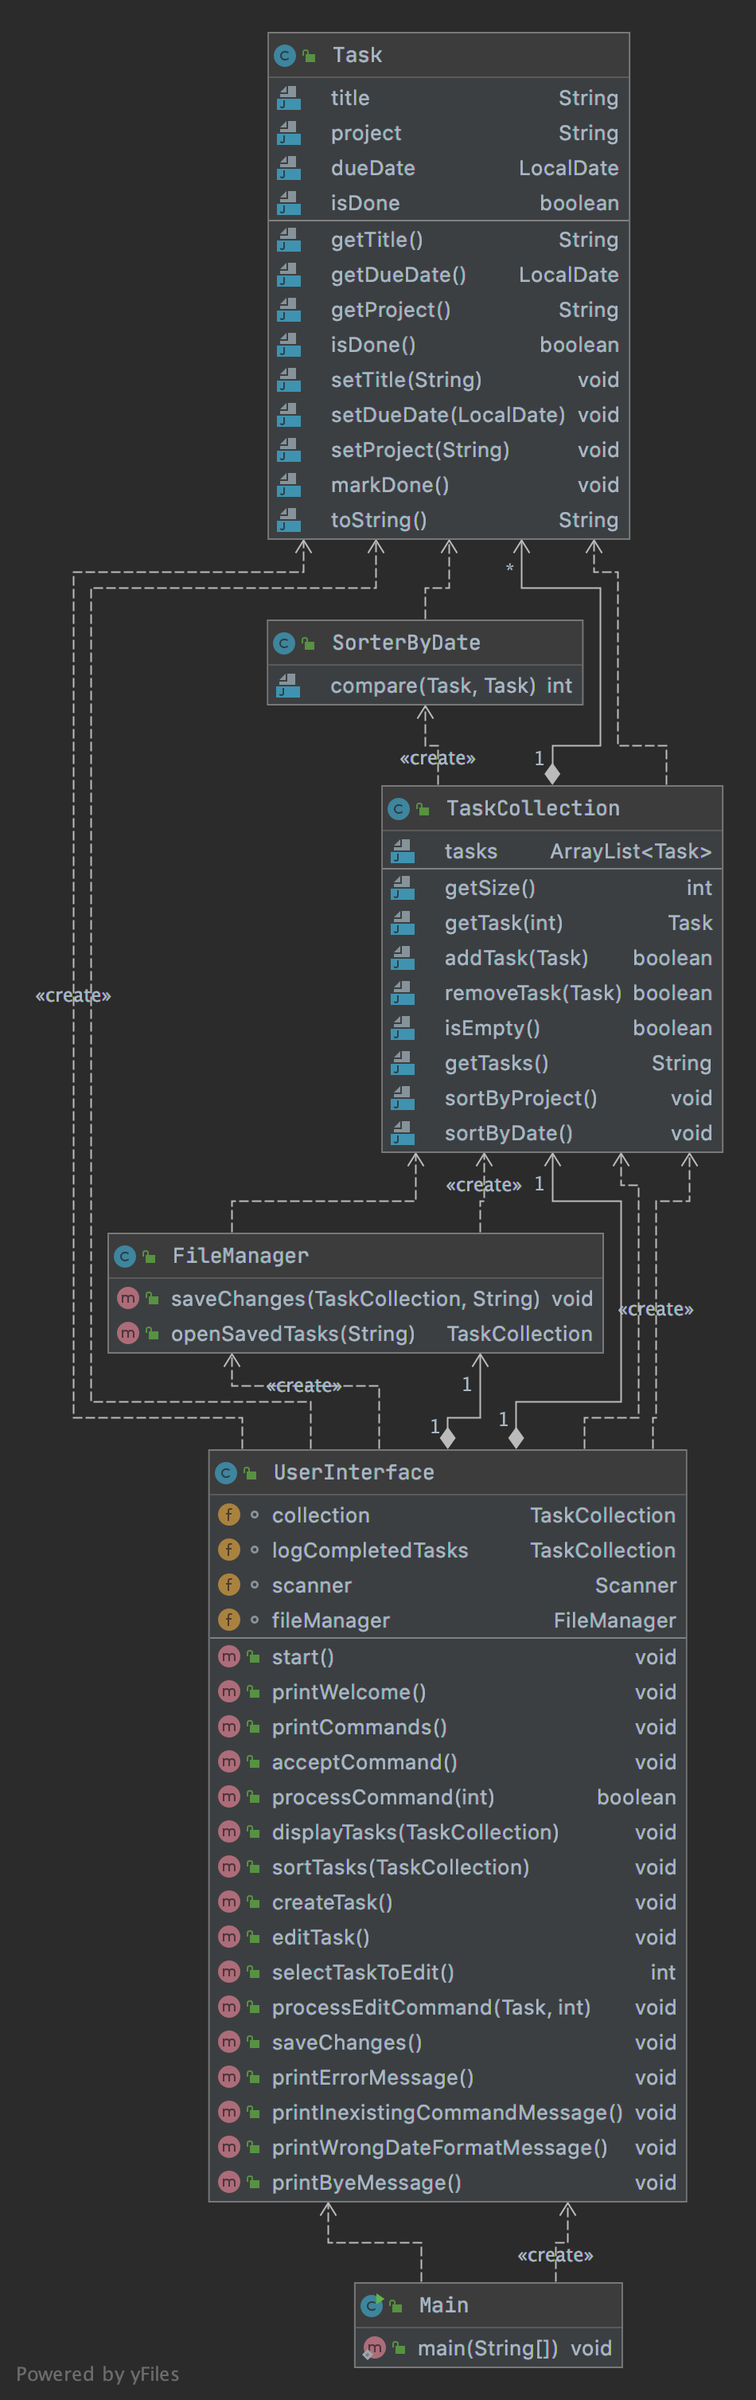
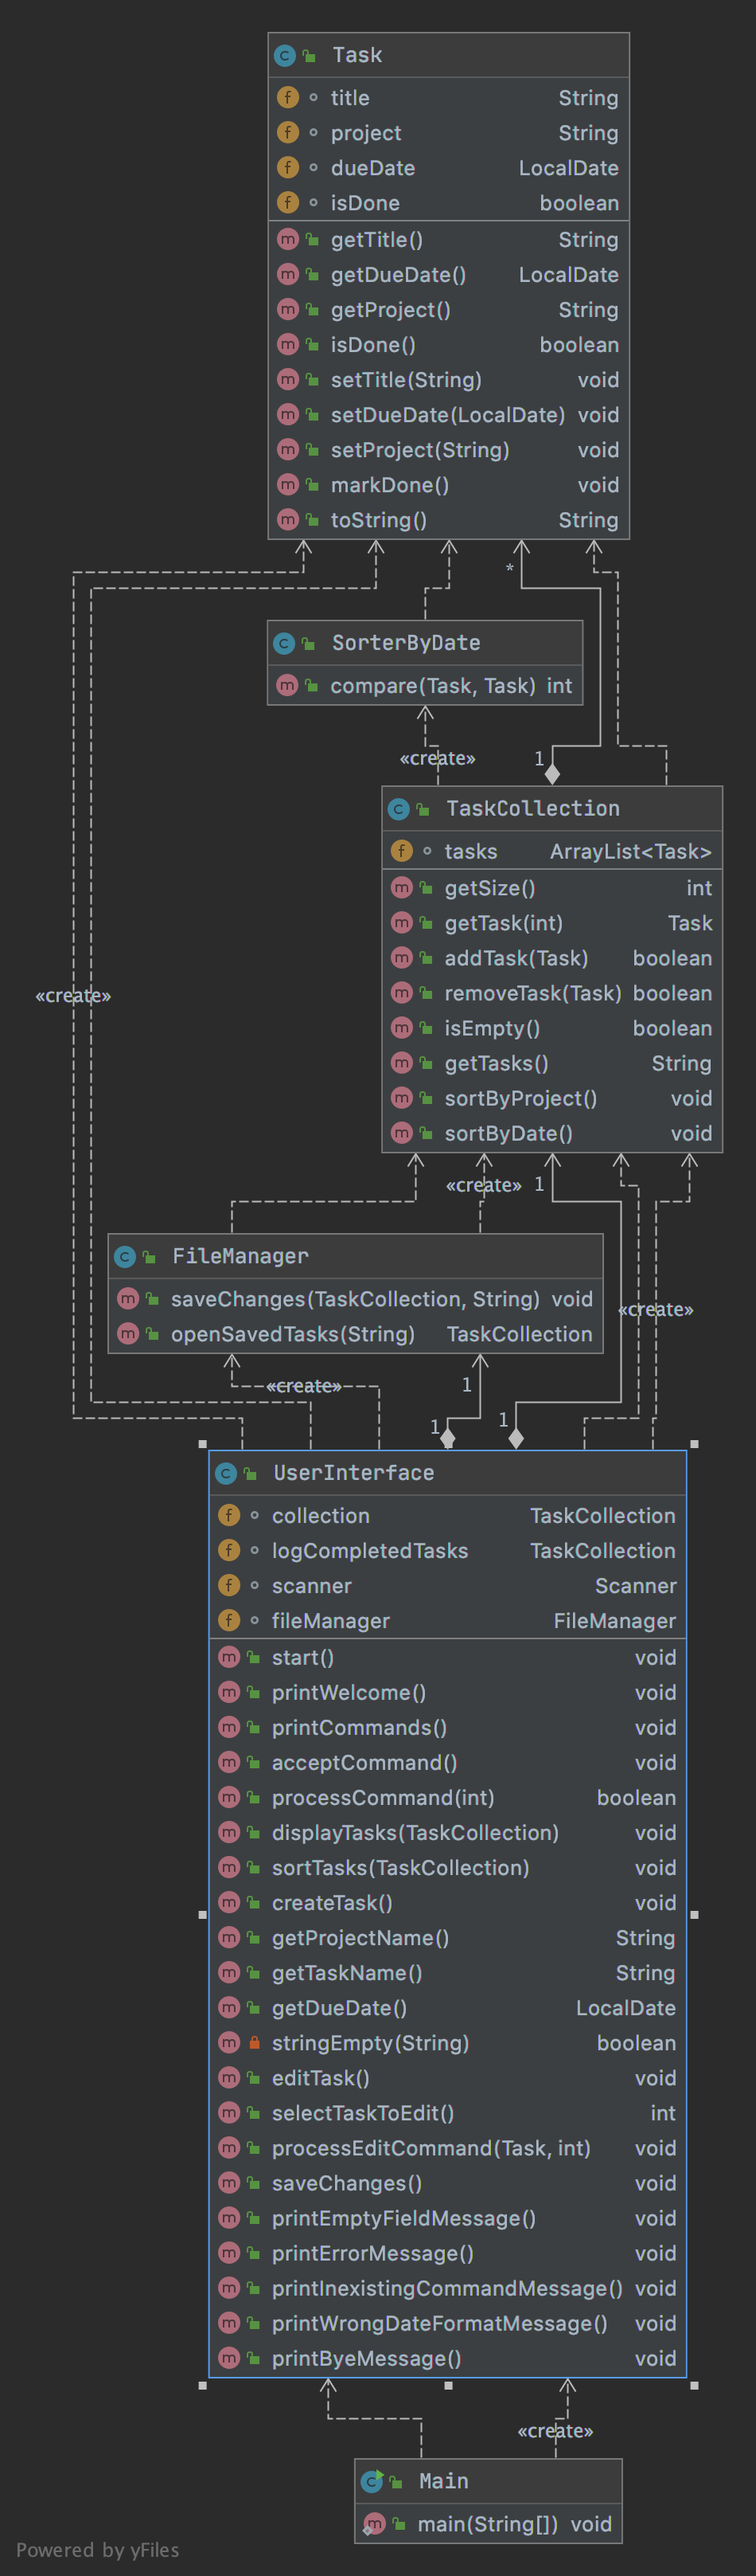
Refactored creation and editing of tasks.
Created helper methods to handle user input for cration and editing of tasks.

diff --git a/src/main/java/main/java/toDoList/UserInterface.java b/src/main/java/main/java/toDoList/UserInterface.java
@@ -169,26 +169,82 @@ public class UserInterface {
      * Accepts data about task from user and creates a task based on that data
      */
     public void createTask() {
-        System.out.println("For which project do you want to create a task?"); // should not ask the question if there is only one project
-        String project = scanner.nextLine();
 
-        System.out.println("What is your task's title?");
-        String title = scanner.nextLine();
+        String project = getProjectName();
+        String title = getTaskName();
+        LocalDate dueDate = getDueDate();
 
-        System.out.println("By when shall it be done? (date in format yyyy-mm-dd)"); // should handle exceptions, wrong format or a date before today
+        Task task = new Task(title, dueDate, project);
 
-        try {
-            LocalDate dueDate = LocalDate.parse(scanner.nextLine());
-            Task task = new Task(title, dueDate, project);
-
-            if (this.collection.addTask(task)) {
+        if (this.collection.addTask(task)) {
             System.out.println("\nThe task \'" + title + "\' has been created for " +
                     "the project \'" + project + "\' with due date on " + dueDate.toString() + "\n");
-            }
-
-        } catch(DateTimeParseException e) {
-            printWrongDateFormatMessage();
         }
+    }
+
+    /**
+     * Gets user input for project name
+     * @return
+     */
+    public String getProjectName() {
+        String project = "";
+
+        while (stringEmpty(project)) {
+            System.out.println("Write project name:"); // should not ask the question if there is only one project
+            project = scanner.nextLine();
+
+            if (stringEmpty(project)) printEmptyFieldMessage();
+        }
+        return project;
+    }
+
+    /**
+     * Gets user input for task title
+     * @return
+     */
+    public String getTaskName() {
+        String title = "";
+
+        while(stringEmpty(title)) {
+            System.out.println("What is your task's title?");
+            title = scanner.nextLine();
+
+            if (stringEmpty(title)) printEmptyFieldMessage();
+        }
+        return title;
+    }
+
+    /**
+     * Gets user input for due date
+     * @return
+     */
+    public LocalDate getDueDate() {
+        LocalDate dueDate = null;
+
+        while (dueDate == null) {
+            System.out.println("By when shall it be done? (date in format yyyy-mm-dd)");
+
+            try {
+                LocalDate date = LocalDate.parse(scanner.nextLine());
+                LocalDate today = LocalDate.now();
+
+                //checks if the due date is set for not earlier than today
+                if (date.compareTo(today) == -1) {
+                    System.out.println("The due date cannot be set before " + today);
+                } else {
+                    dueDate = date;
+                }
+
+            } catch(DateTimeParseException e) {
+                printWrongDateFormatMessage();
+            }
+        }
+        return dueDate;
+    }
+
+    /**Checks if a string is empty*/
+    private boolean stringEmpty(String name) {
+        return name.equals("");
     }
 
     /**
@@ -255,22 +311,19 @@ public class UserInterface {
 
                 switch (action) {
                     case 1:
-                        System.out.println("Write a new name for your task: ");
-                        String newTitle = scanner.nextLine();
+                        String newTitle = getTaskName();
                         selectedTask.setTitle(newTitle);
                         System.out.println("The name for your task has been updated to \'" + newTitle + "\'");
                         validCommand = true;
                         break;
                     case 2:
-                        System.out.println("Write a new due date for your task in the format yyyy-mm-dd: ");
-                        LocalDate newDate = LocalDate.parse(scanner.nextLine());
+                        LocalDate newDate = getDueDate();
                         selectedTask.setDueDate(newDate);
                         validCommand = true;
                         System.out.println("The due date for your task has been updated to \'" + newDate.toString() + "\'");
                         break;
                     case 3:
-                        System.out.println("Write a new name for the project your task belongs to: ");
-                        String newProject = scanner.nextLine();
+                        String newProject = getProjectName();
                         selectedTask.setProject(newProject);
                         System.out.println("The name for your task's project has been updated to \'" + newProject + "\'");
                         validCommand = true;
@@ -312,6 +365,11 @@ public class UserInterface {
     public void saveChanges() {
         fileManager.saveChanges(this.collection, "savedTasks.txt");
         fileManager.saveChanges(this.logCompletedTasks, "logCompletedTasks.txt");
+    }
+
+    /**Prints a message saying the field cannot be empty*/
+    public void printEmptyFieldMessage() {
+        System.out.println("The field cannot be empty");
     }
 
     /**Prints error message*/
